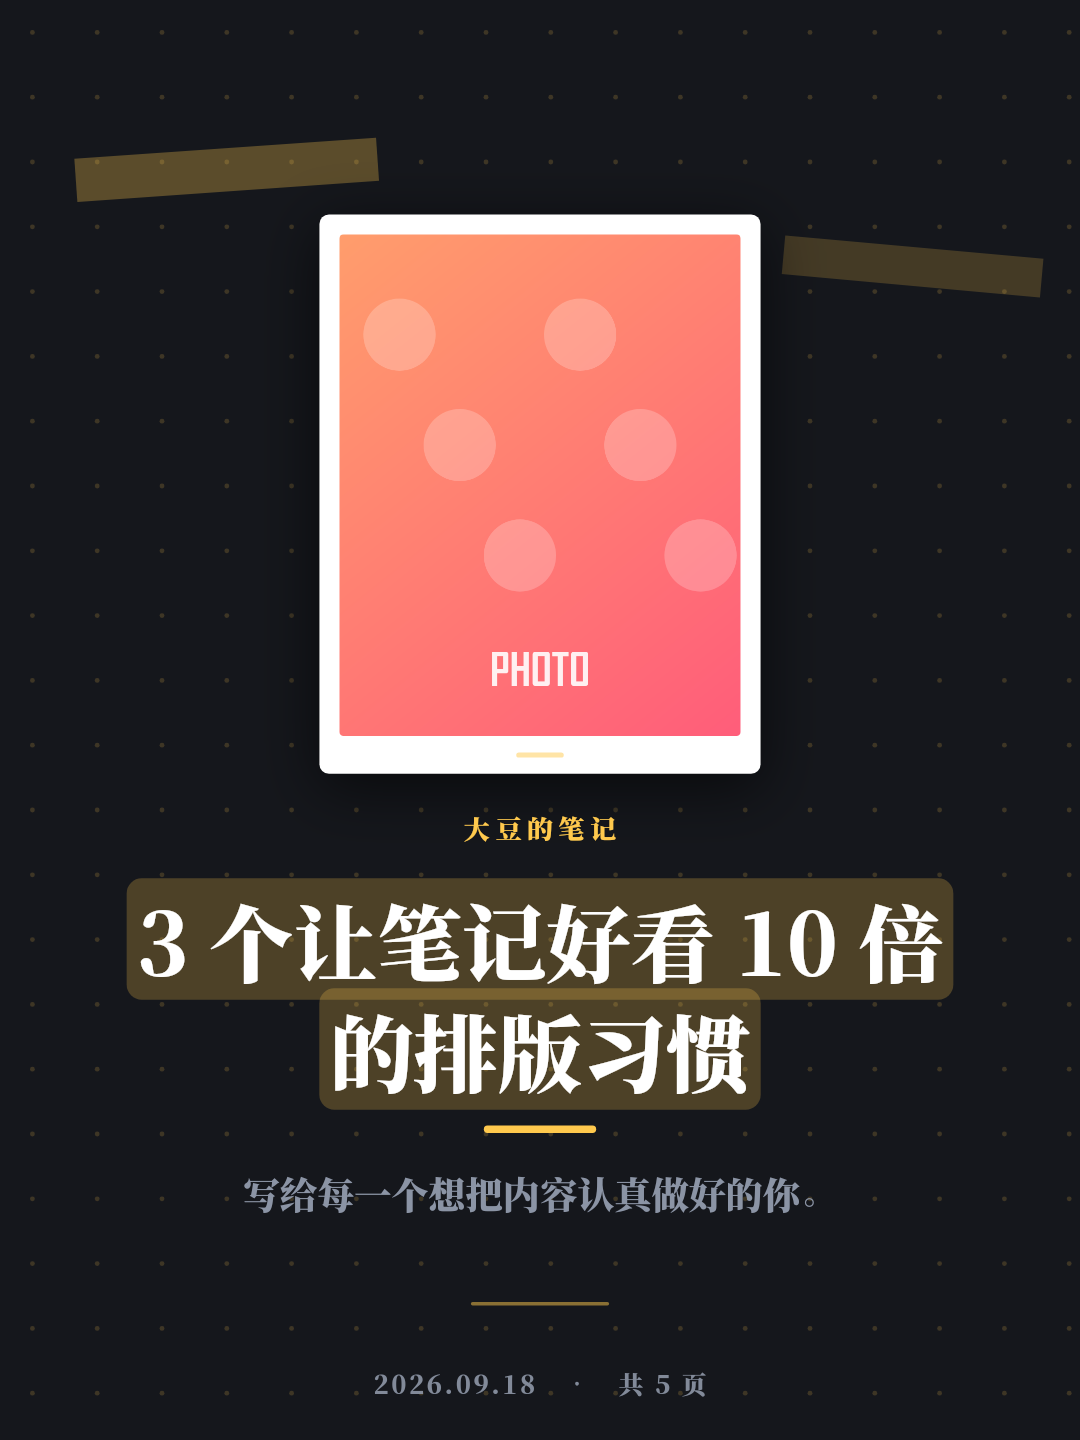
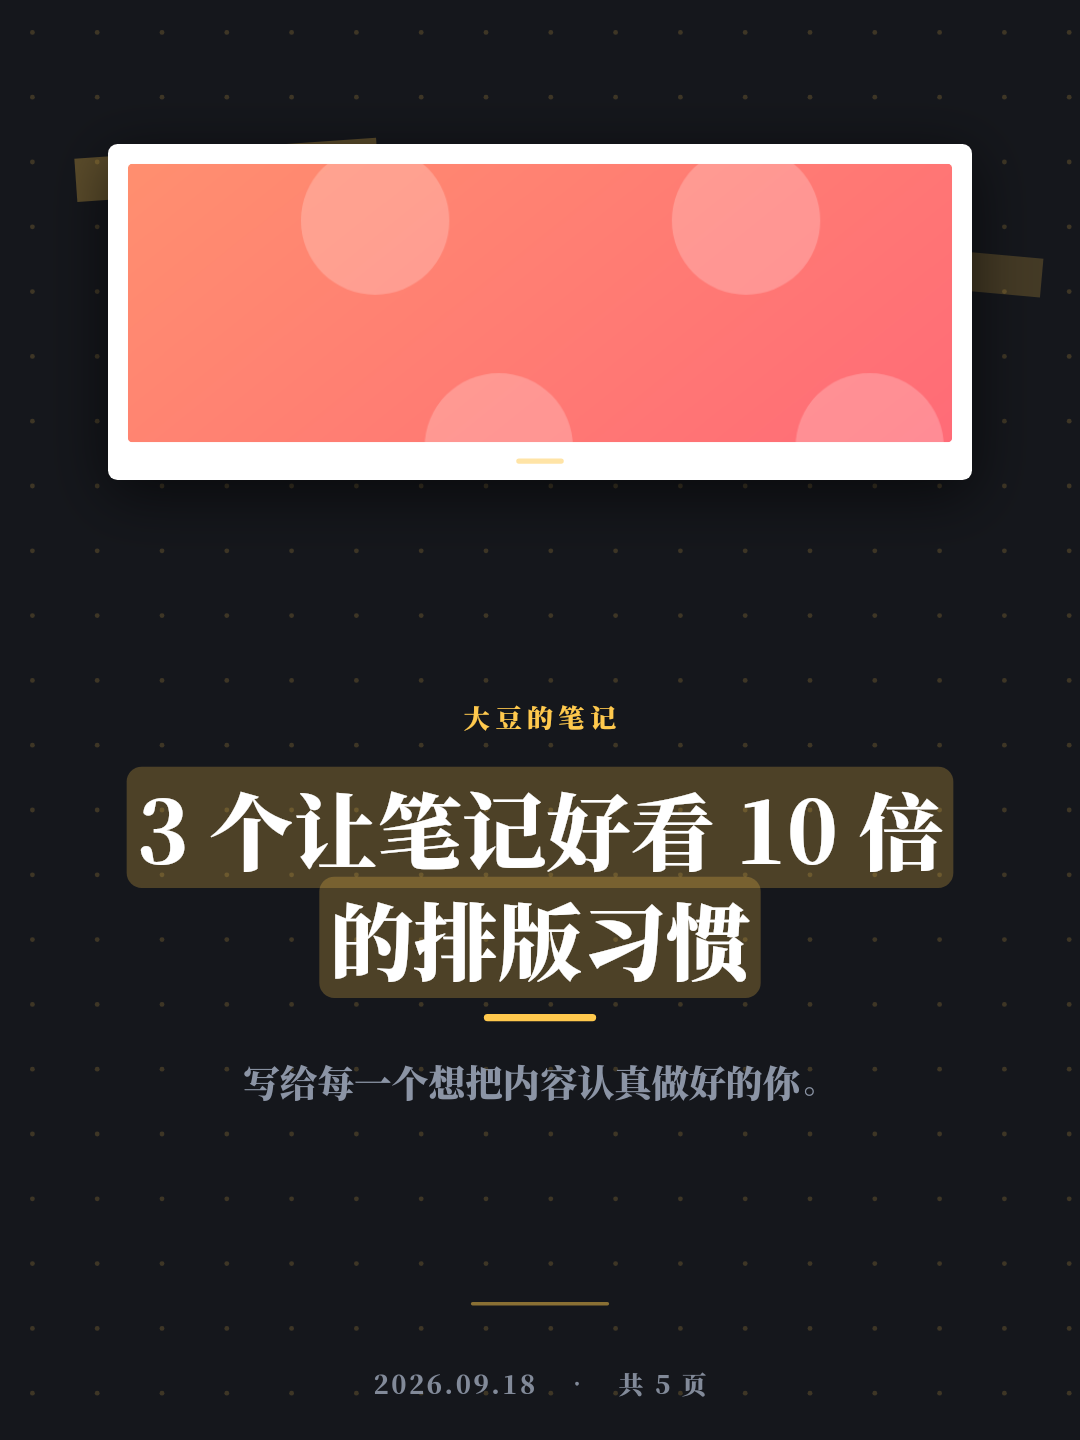
封面配图改为固定版式：占封面上方 1/3，左右上各留 10%
原来配图是按档位自适应尺寸、再和标题一起整体居中，位置和大小都不确定。
改为固定版式，所见即所得：

- 左右各留 10% 宽度、上边留 10% 高度，图片底边正好落在画布 1/3 处
- 图片按比例裁切填满该区域（不留白、不拉伸变形）
- 四种样式的外框（含拍立得白相纸）统一以该区域为准
- 圆形取区域高度为直径、水平居中（圆无法填满宽幅区，这是唯一例外）
- 「图片大小」由原来的自适应档位改为在 1/3 版式上的微调倍率 0.8/1/1.2/1.4
- 杂志栏目风格的页眉条本已占到 10.8%H，配图顶边自动下移避开，底边仍锚定 1/3
- 标题过长时优先自动缩小标题字号保住该版式，极端长度才压缩配图，永不溢出画布

顺带修掉一个真实溢出 bug：72 字长标题在「大字标题」风格下会把文字挤出画布、
压到页脚日期上（之前配图可以无限缩小所以没暴露）。

新增 _test/coverlayout.js：用品红测试图逐点取像素做几何断言，
覆盖 4 种画布比例 × 4 档大小 × 4 种样式 + 页眉条避让 + 竖图裁切 + 长标题，
203 项断言全过（不是「没抛错」就算过）。

diff --git a/_test/coverlayout.js b/_test/coverlayout.js
@@ -1,0 +1,239 @@
+/* 封面配图「固定版式」几何测试
+   规则：左右各 10%W、上边 10%H、底边落在画布 1/3 处（按档位乘 0.8/1/1.2/1.4）、裁切填满
+   做法：用纯品红测试图，渲染后逐点取像素，断言图上/图外的真实位置 —— 不是「没抛错」就算过 */
+const fs = require('fs');
+const path = require('path');
+require('../js/util.js');
+require('../js/md.js');
+require('../js/themes.js');
+const napi = require('@napi-rs/canvas');
+
+global.document = {
+  createElement: function () {
+    const w = { _w: 0, _h: 0, _inst: null };
+    Object.defineProperty(w, 'width', { get() { return this._w; }, set(v) { this._w = v; } });
+    Object.defineProperty(w, 'height', { get() { return this._h; }, set(v) { this._h = v; } });
+    w.getContext = function () {
+      if (!this._inst) this._inst = napi.createCanvas(this._w || 1, this._h || 1);
+      const c = this._inst.getContext('2d'); c.textBaseline = 'middle'; return c;
+    };
+    return w;
+  }
+};
+require('../js/render.js');
+const MD = global.MD, RENDER = global.RENDER;
+
+const outDir = path.join(__dirname, 'out4');
+if (!fs.existsSync(outDir)) fs.mkdirSync(outDir);
+
+/* ---------- 断言工具 ---------- */
+let pass = 0, fail = 0;
+const report = [];
+function expect(cond, msg) {
+  if (cond) { pass++; report.push('OK   ' + msg); }
+  else { fail++; report.push('FAIL ' + msg); }
+}
+function nearly(a, b, tol) { return Math.abs(a - b) <= tol; }
+
+/* ---------- 纯品红测试图：任何像素都能判定「这里画了配图」 ---------- */
+function solidBuf(w, h) {
+  const c = napi.createCanvas(w, h), x = c.getContext('2d');
+  x.fillStyle = '#FF00FF'; x.fillRect(0, 0, w, h);
+  return c.toBuffer('image/png');
+}
+const px = (cv, x, y) => {
+  const d = cv._inst.getContext('2d').getImageData(Math.round(x), Math.round(y), 1, 1).data;
+  return { r: d[0], g: d[1], b: d[2] };
+};
+const isImg = p => p.r > 190 && p.g < 70 && p.b > 190;
+
+/* 独立复算期望值（不引用 render.js 内部常量，避免「自己测自己」） */
+const MULT = { sm: 0.8, md: 1.0, lg: 1.2, xl: 1.4 };
+const RATIOS = { '3:4': [3, 4], '4:5': [4, 5], '1:1': [1, 1], '9:16': [9, 16] };
+function expectBox(W, H, size, band) {
+  const base = W * 0.040;
+  let top = H * 0.10;
+  if (band) top = Math.max(top, Math.round(H * 0.108) + base * 0.6);
+  const specH = H / 3 - top;
+  return { left: W * 0.10, right: W * 0.90, top: top, h: specH * MULT[size], bottom: top + specH * MULT[size] };
+}
+
+/* 检查一个已渲染的封面：图内 5 点必须是品红，图外 4 点必须不是 */
+function probeCover(tag, cv, W, H, e) {
+  const midY = e.top + e.h / 2;
+  const inside = [
+    ['上边内', W / 2, e.top + 5],
+    ['下边内', W / 2, e.bottom - 5],
+    ['左边内', e.left + 5, midY],
+    ['右边内', e.right - 5, midY],
+    ['中心', W / 2, midY]
+  ];
+  const outside = [
+    ['上边外(仅 10% 上边距)', W / 2, e.top - 7],
+    ['下边外(超出 1/3)', W / 2, e.bottom + 8],
+    ['左边外', e.left - 7, midY],
+    ['右边外', e.right + 7, midY]
+  ];
+  for (const [name, x, y] of inside) {
+    expect(isImg(px(cv, x, y)), `${tag} ${name} 应为配图 (${Math.round(x)},${Math.round(y)})`);
+  }
+  for (const [name, x, y] of outside) {
+    expect(!isImg(px(cv, x, y)), `${tag} ${name} 不应为配图 (${Math.round(x)},${Math.round(y)})`);
+  }
+}
+
+const SAMPLE = '# 封面标题\n\n一句话副标题\n\n## 小节\n\n正文内容一二三。\n';
+const LONG_MD = '# ' + '这是一个相当长的封面标题需要换行处理'.repeat(4) + '\n\n正文。';
+
+(async function main() {
+  const land = await napi.loadImage(solidBuf(1200, 900));
+  const port = await napi.loadImage(solidBuf(720, 1280));
+  const imgMap = {
+    'img:land': { img: land, w: 1200, h: 900 },
+    'img:port': { img: port, w: 720, h: 1280 }
+  };
+  const mk = (o) => Object.assign({
+    width: 1080, ratio: '3:4', themeId: 'cream', styleId: 'board', fontId: 'sans',
+    fontScale: 0.040, padRatio: 0.085, account: '@测试', endText: '关注我',
+    cover: true, end: true, pageNum: true, header: true,
+    coverImg: 'img:land', coverImgSize: 'md', coverImgShape: 'plain'
+  }, o);
+
+  /* ---- A. 4 种画布比例 × 4 档大小：底边必须落在 1/3，左右上必须 10% ---- */
+  for (const rt of Object.keys(RATIOS)) {
+    const r = RATIOS[rt], W = 1080, H = Math.round(W * r[1] / r[0]);
+    for (const sz of Object.keys(MULT)) {
+      const e = expectBox(W, H, sz, false);
+      let cv;
+      try {
+        cv = RENDER.renderSync(MD.parse(SAMPLE), mk({ ratio: rt, coverImgSize: sz }), imgMap)[0].canvas;
+        fs.writeFileSync(path.join(outDir, `geom-${rt.replace(':', 'x')}-${sz}.png`), cv._inst.toBuffer('image/png'));
+      } catch (err) { expect(false, `geom-${rt}-${sz} 渲染抛错: ${err.message}`); continue; }
+      probeCover(`[${rt}/${sz}]`, cv, W, H, e);
+      // 精确断言：左右边界就是 10% / 90%
+      expect(nearly(e.left, W * 0.1, 0.5) && nearly(e.right, W * 0.9, 0.5), `[${rt}/${sz}] 左右边界 = ${W * 0.1} / ${W * 0.9}`);
+      if (sz === 'md') {
+        // 中档：底边严格落在 H/3
+        expect(isImg(px(cv, W / 2, H / 3 - 4)) && !isImg(px(cv, W / 2, H / 3 + 10)),
+          `[${rt}] 中档底边落在画布 1/3 处 (H=${H}, H/3=${Math.round(H / 3)})`);
+      }
+    }
+  }
+
+  /* ---- B. 4 档大小的底边严格递增（3:4 画布） ---- */
+  {
+    const W = 1080, H = 1440;
+    const bots = [];
+    for (const sz of ['sm', 'md', 'lg', 'xl']) {
+      const e = expectBox(W, H, sz, false);
+      const cv = RENDER.renderSync(MD.parse(SAMPLE), mk({ coverImgSize: sz }), imgMap)[0].canvas;
+      // 找真实底边：从期望值附近向下扫，最后一行是图的 y
+      let real = 0;
+      for (let y = Math.round(e.top); y < H * 0.6; y++) if (isImg(px(cv, W / 2, y))) real = y;
+      bots.push(real);
+      expect(nearly(real, e.bottom, 3), `[3:4/${sz}] 实测底边 ${real} ≈ 期望 ${Math.round(e.bottom)}`);
+    }
+    expect(bots[0] < bots[1] && bots[1] < bots[2] && bots[2] < bots[3],
+      `4 档大小底边依次下移: ${bots.join(' < ')}`);
+  }
+
+  /* ---- C. 4 种样式都落在同一区域（圆形只在框内居中画圆） ---- */
+  for (const sh of ['rounded', 'plain', 'circle', 'polaroid']) {
+    const W = 1080, H = 1440, e = expectBox(W, H, 'md', false);
+    const cv = RENDER.renderSync(MD.parse(SAMPLE), mk({ coverImgShape: sh }), imgMap)[0].canvas;
+    fs.writeFileSync(path.join(outDir, 'shape-' + sh + '.png'), cv._inst.toBuffer('image/png'));
+    if (sh === 'circle') {
+      // 圆直径 = 框高，圆心在框中心
+      const r = e.h / 2, cx = W / 2, cyy = e.top + e.h / 2;
+      expect(isImg(px(cv, cx, cyy)) && isImg(px(cv, cx, cyy - r + 6)) && !isImg(px(cv, cx - r - 8, cyy)),
+        `[circle] 直径=${Math.round(e.h)} 圆心=(${Math.round(cx)},${Math.round(cyy)}) 落在上方 1/3 区域内`);
+    } else if (sh === 'polaroid') {
+      // 白相纸外框 = 该区域；照片内缩，所以框的四角应是白色而非品红
+      const p = px(cv, e.left + 3, e.top + 3);
+      expect(p.r > 235 && p.g > 235 && p.b > 235, `[polaroid] 外框左上角为白相纸色 rgba(${p.r},${p.g},${p.b})`);
+      expect(isImg(px(cv, W / 2, e.top + e.h / 2)), `[polaroid] 照片区中心仍为配图`);
+      expect(!isImg(px(cv, W / 2, e.bottom + 8)), `[polaroid] 外框底边之外无配图`);
+    } else {
+      probeCover('[' + sh + ']', cv, W, H, e);
+    }
+  }
+
+  /* ---- D. 杂志栏目（有页眉条）：配图不能被页眉条压住 ---- */
+  {
+    const W = 1080, H = 1440;
+    const e = expectBox(W, H, 'md', true);
+    const cv = RENDER.renderSync(MD.parse(SAMPLE), mk({ styleId: 'magazine' }), imgMap)[0].canvas;
+    fs.writeFileSync(path.join(outDir, 'band-magazine.png'), cv._inst.toBuffer('image/png'));
+    const bandH = Math.round(H * 0.108);
+    expect(!isImg(px(cv, W / 2, bandH - 4)), `[magazine] 页眉条内(0~${bandH})没有配图`);
+    expect(isImg(px(cv, W / 2, e.top + 6)), `[magazine] 配图顶边下移到 ${Math.round(e.top)}（避开页眉条）`);
+    expect(nearly(e.bottom, H / 3, 1), `[magazine] 底边仍锚定在 1/3 = ${Math.round(H / 3)}`);
+    expect(!isImg(px(cv, W / 2, e.bottom + 8)), `[magazine] 底边之外无配图`);
+  }
+
+  /* ---- E. 竖向图同样落在该区域（裁切填满，不留白） ---- */
+  {
+    const W = 1080, H = 1440, e = expectBox(W, H, 'md', false);
+    const cv = RENDER.renderSync(MD.parse(SAMPLE), mk({ coverImg: 'img:port' }), imgMap)[0].canvas;
+    fs.writeFileSync(path.join(outDir, 'portrait-source.png'), cv._inst.toBuffer('image/png'));
+    // 裁切填满 ⇒ 区域四角都应是图，而不是背景
+    expect(isImg(px(cv, e.left + 6, e.top + 6)) && isImg(px(cv, e.right - 6, e.bottom - 6)),
+      `[竖图源] 裁切填满：区域四角均为配图（无留白）`);
+  }
+
+  /* ---- F. 超长标题：优先缩标题字号保住配图版式，且文字不溢出画布 ---- */
+  {
+    const W = 1080, H = 1440, e = expectBox(W, H, 'xl', false);
+    const bot = H - Math.round(W * 0.085) * 1.6;
+    const cv = RENDER.renderSync(MD.parse(LONG_MD), mk({ coverImgSize: 'xl', styleId: 'board' }), imgMap)[0].canvas;
+    fs.writeFileSync(path.join(outDir, 'long-title-clamp.png'), cv._inst.toBuffer('image/png'));
+
+    // 1) 配图仍占满 xl 档的规格区域（说明是「先缩字」而不是「先压图」）
+    let real = 0;
+    for (let y = 0; y < H * 0.6; y++) if (isImg(px(cv, W / 2, y))) real = y;
+    expect(nearly(real, e.bottom, 4), `[超长标题] 配图仍保留 xl 规格底边 ${real} ≈ ${Math.round(e.bottom)}`);
+
+    // 2) 文字没有溢出：文字区下限附近应与更下方的空白同色
+    const p1 = px(cv, W / 2, bot + 4), p2 = px(cv, W / 2, bot + 70);
+    const near = (a, b) => Math.abs(a.r - b.r) < 12 && Math.abs(a.g - b.g) < 12 && Math.abs(a.b - b.b) < 12;
+    expect(near(p1, p2), `[超长标题] 文字未越过文字区下限 (${bot})：y=${bot + 4} 与 y=${bot + 70} 同色`);
+
+    // 3) 对照组：同一版式下短标题的封面，配图位置应完全一致（版式不受文字长度影响）
+    const cvShort = RENDER.renderSync(MD.parse(SAMPLE), mk({ coverImgSize: 'xl', styleId: 'board' }), imgMap)[0].canvas;
+    let realShort = 0;
+    for (let y = 0; y < H * 0.6; y++) if (isImg(px(cvShort, W / 2, y))) realShort = y;
+    expect(nearly(real, realShort, 2), `[超长标题] 与短标题版式一致（${real} vs ${realShort}）`);
+  }
+
+  /* ---- F2. 极端长度（216 字）：字号降到下限后压缩配图，仍不溢出 ---- */
+  {
+    const W = 1080, H = 1440, e = expectBox(W, H, 'xl', false);
+    const bot = H - Math.round(W * 0.085) * 1.6;
+    const huge = '# ' + '这是一个相当长的封面标题需要换行处理'.repeat(12) + '\n\n正文。';
+    const cv = RENDER.renderSync(MD.parse(huge), mk({ coverImgSize: 'xl', styleId: 'board' }), imgMap)[0].canvas;
+    fs.writeFileSync(path.join(outDir, 'huge-title.png'), cv._inst.toBuffer('image/png'));
+    let real = 0;
+    for (let y = 0; y < H * 0.5; y++) if (isImg(px(cv, W / 2, y))) real = y;
+    expect(real < e.bottom, `[216字标题] 配图被压到 ${real}px（< xl 规格 ${Math.round(e.bottom)}）`);
+    expect(real > e.top + 90, `[216字标题] 配图仍有可辨识高度 ${Math.round(real - e.top)}px`);
+    const p1 = px(cv, W / 2, bot + 4), p2 = px(cv, W / 2, bot + 70);
+    const near = (a, b) => Math.abs(a.r - b.r) < 12 && Math.abs(a.g - b.g) < 12 && Math.abs(a.b - b.b) < 12;
+    expect(near(p1, p2), `[216字标题] 文字仍未越过文字区下限 (${bot})`);
+  }
+
+  /* ---- G. 没有配图时，版式不应受影响（保持原有的整体居中） ---- */
+  {
+    const cv = RENDER.renderSync(MD.parse(SAMPLE), mk({ coverImg: '' }), imgMap)[0].canvas;
+    fs.writeFileSync(path.join(outDir, 'no-image.png'), cv._inst.toBuffer('image/png'));
+    let any = false;
+    const d = cv._inst.getContext('2d');
+    for (let y = 0; y < 500; y += 7) if (isImg(px(cv, 540, y))) any = true;
+    expect(!any, '[无配图] 封面上方 1/3 内没有品红（不画配图）');
+  }
+
+  fs.writeFileSync(path.join(__dirname, 'coverlayout-log.txt'),
+    report.join('\n') + `\n\n通过 ${pass} / 失败 ${fail}\n`, 'utf8');
+  console.log(report.join('\n'));
+  console.log(`\n通过 ${pass} / 失败 ${fail}`);
+  process.exitCode = fail ? 1 : 0;
+})();

diff --git a/js/render.js b/js/render.js
@@ -502,30 +502,27 @@
       drawSpaced(ctx, String(opts.account).slice(0, 18), W - pad, pad * 0.5, base * 0.04, 'right');
     }
 
-    /* ---- 封面配图（置于标题上方） ---- */
+    /* ---- 封面配图（固定版式：钉在顶部，左右上各留 10%，底边落在画布 1/3 处） ---- */
     const cImg = (opts.coverImg && images) ? images[opts.coverImg] : null;
-    const SIZE_RATIO = { sm: 0.42, md: 0.56, lg: 0.72, xl: 0.88 };
-    const MAT = base * 0.46;   // 拍立得白边
+    const SIZE_MULT = { sm: 0.8, md: 1.0, lg: 1.2, xl: 1.4 };   // 「图片大小」= 在 1/3 版式上的微调倍率
 
-    // 依据可用空间算出配图外框尺寸；横竖图统一按长边计算，观感更一致
-    function coverImageBox(maxW, maxH) {
+    // h 传 0/falsy 表示按档位取高度；传具体值用于「内容过长时压缩配图腾地方」
+    function coverImageBox(h) {
       if (!cImg) return null;
       const shape = opts.coverImgShape || 'rounded';
-      const ratio = Math.max(0.22, Math.min(4.5, cImg.w / Math.max(1, cImg.h)));
-      const side = Math.max(base * 3, maxW * (SIZE_RATIO[opts.coverImgSize] || SIZE_RATIO.md));
-      const matTop = shape === 'polaroid' ? MAT : 0;
-      const matBot = shape === 'polaroid' ? MAT * 1.9 : 0;
-      const mh = maxH - matTop - matBot;      // 扣除相纸白边后的可用高度
-      if (mh < base * 2.4) return null;       // 空间不足：宁可不放图，也不画一个米粒大的装饰
-      let iw, ih;
-      if (shape === 'circle') {
-        iw = ih = Math.min(side, mh);
-      } else if (ratio >= 1) {
-        iw = Math.min(side, mh * ratio); ih = iw / ratio;
-      } else {
-        ih = Math.min(side, mh); iw = ih * ratio;
-      }
-      return { w: iw + matTop * 2, h: ih + matTop + matBot, iw: iw, ih: ih, mat: matTop, matBot: matBot };
+      const x = W * 0.10, w = W * 0.80;
+      let top = H * 0.10;
+      // 杂志栏目的页眉条本身占到 10.8%H，会顶到 10% 处，往下让一点（其余版式严格 10%）
+      if (style.band) top = Math.max(top, bandH + base * 0.6);
+      const specH = H / 3 - top;                                 // 中档：底边正好落在 1/3
+      const hh = h || specH * (SIZE_MULT[opts.coverImgSize] || 1);
+      const mat = shape === 'polaroid' ? Math.min(base * 0.46, hh * 0.16) : 0;
+      const matBot = mat * 1.9;
+      return {
+        x: x, y: top, w: w, h: hh, specH: specH,
+        mat: mat, matBot: matBot,
+        iw: w - mat * 2, ih: Math.max(base, hh - mat - matBot)
+      };
     }
 
     // 等比铺满（object-fit: cover）绘制
@@ -601,26 +598,38 @@
       }
       paintBand(ctx, '');
 
-      const tSize = base * 1.95, tLH = Math.round(tSize * 1.3);
-      const tLines = wrapTo(tok(title, tSize, 700), contentW * 0.94);
       const sSize = base * 0.86, sLH = Math.round(sSize * 1.62);
       const sLines = subtitle ? wrapTo(tok(subtitle, sSize, 400), contentW * 0.82).slice(0, 3) : [];
 
       const top = style.band ? bandH + base * 0.7 : H * 0.1;
       const bot = H - pad * 1.6;
       const kickerAdv = style.titleMark === 'block' ? base * 1.65 : base * 1.3;
-      const textH = kickerAdv + tLines.length * tLH + base * 1.35 + sLines.length * sLH;
-
-      // 配图 + 文字整体垂直居中；配图高度自适应可用空间，保证文字不被挤出
       const gapImg = base * 1.25;
-      const box = coverImageBox(contentW, bot - top - textH - gapImg);
-      const totalH = textH + (box ? box.h + gapImg : 0);
-      let cy = top + Math.max(0, (bot - top - totalH) * 0.5);
 
-      if (box) {
-        paintCoverImage(ctx, (W - box.w) / 2, cy, box);
-        cy += box.h + gapImg;
+      // 配图固定钉在顶部（左右上各 10%，底边落在 1/3）；文字在剩余空间里垂直居中
+      const specBox = coverImageBox(0);
+      const textAreaTop = specBox ? specBox.y + specBox.h + gapImg : top;
+
+      // 标题自动缩放：优先保住配图版式（严格 1/3），文字放不下就先缩标题字号
+      let tSize = base * 1.95, tLH = Math.round(tSize * 1.3), tLines, textH = 0;
+      for (let pass = 0; pass < 20; pass++) {
+        tLines = wrapTo(tok(title, tSize, 700), contentW * 0.94);
+        textH = kickerAdv + tLines.length * tLH + base * 1.35 + sLines.length * sLH;
+        if (textH <= bot - textAreaTop || tSize <= base * 1.05) break;
+        tSize = Math.max(base * 1.05, tSize * 0.94);
+        tLH = Math.round(tSize * 1.3);
       }
+
+      // 字号已到下限仍放不下（极端长标题）：再压缩配图，最低到规格高度的 40%
+      let box = specBox;
+      if (box) {
+        const maxH = bot - box.y - gapImg - textH;
+        if (box.h > maxH) box = coverImageBox(Math.max(box.specH * 0.4, maxH));
+      }
+      const areaTop = box ? box.y + box.h + gapImg : top;
+      let cy = areaTop + Math.max(0, (bot - areaTop - textH) * 0.5);
+
+      if (box) paintCoverImage(ctx, box.x, box.y, box);
 
       ctx.fillStyle = theme.accent;
       ctx.font = '700 ' + Math.round(base * 0.6) + 'px ' + stack;

diff --git a/index.html b/index.html
@@ -110,17 +110,17 @@
           <div id="coverImgThumb" class="imgdrop-thumb"></div>
           <div class="imgdrop-text">
             <b id="coverImgPick">点击选择图片</b>
-            <span>或拖入 / Ctrl+V 粘贴 · 显示在封面标题上方</span>
+            <span>或拖入 / Ctrl+V 粘贴 · 固定占封面上方 1/3，左右上各留 10%</span>
           </div>
           <button id="coverImgClear" class="mini-btn danger" type="button" hidden>移除</button>
         </div>
         <div id="coverImgOpts" class="grid2 imgsize off">
           <label class="field">图片大小
             <select id="coverImgSize">
-              <option value="sm">小</option>
-              <option value="md" selected>中</option>
-              <option value="lg">大</option>
-              <option value="xl">特大</option>
+              <option value="sm">小（0.8×）</option>
+              <option value="md" selected>中（1×，底边落在 1/3）</option>
+              <option value="lg">大（1.2×）</option>
+              <option value="xl">特大（1.4×）</option>
             </select>
           </label>
           <label class="field">图片样式

diff --git a/_test/cover.js b/_test/cover.js
@@ -99,7 +99,8 @@ const report = [];
     }
   }
 
-  // 2) 4 种尺寸档位 → 配图应逐档变大（用竖向图，保证高度受空间约束）
+  // 2) 4 档「图片大小」= 在固定 1/3 版式上的微调倍率（0.8/1/1.2/1.4），只做冒烟
+  //    （精确几何断言见 coverlayout.js）
   for (const sz of sizes) {
     const opts = {
       width: 1080, ratio: '3:4', themeId: 'dark', styleId: 'journal', fontId: 'sans',

diff --git a/README.md b/README.md
@@ -35,11 +35,13 @@
 
 ### 封面
 - 封面页含标题、副标题、署名、日期、总页数
-- **封面配图**：显示在封面标题上方，支持
-  - 4 种样式：圆角矩形 / 直角 / 圆形（带主题色描边+光晕）/ 拍立得（白相纸+底部留白）
-  - 4 档大小：小 / 中 / 大 / 特大
+- **封面配图**：固定在封面顶部，版式是死的，不用手动摆
+  - **位置固定**：左右各留 10% 宽度、上边留 10% 高度，图片底边正好落在画布 **1/3** 处
+  - 4 种样式：圆角矩形 / 直角 / 圆形（带主题色描边+光晕）/ 拍立得（白相纸+底部留白，相框即该区域）
+  - 4 档大小：在 1/3 版式上微调 **0.8× / 1× / 1.2× / 1.4×**
+  - 图片**裁切填满**该区域（和朋友圈封面同理：不留白、不拉伸变形）
   - 3 种添加方式：点击选图 / 把图拖进来 / `Ctrl + V` 粘贴剪贴板里的图
-  - 配图高度会按可用空间**自适应**，文字多时自动让位；空间实在不够就主动不画图（而不是缩成一个小点）
+  - 文字区在配图之下垂直居中；标题过长时**优先自动缩小标题字号**保住这个版式，极端长度才压缩配图，永不溢出画布
 - 结尾页文案可自定义（默认「点赞 · 收藏 · 关注不迷路」）
 - 页码、页眉署名可分别开关
 
@@ -93,7 +95,8 @@ _test/              离线测试台（见下）
 npm i @napi-rs/canvas
 cd _test
 node test-render.js   # 多配色/版式/字体组合出图
-node cover.js         # 封面配图专项（样式 × 图源 × 大小 × 画布比例）
+node cover.js         # 封面配图冒烟（样式 × 图源 × 大小 × 画布比例）
+node coverlayout.js   # 封面配图版式几何断言：用品红测试图逐点取像素，验证左右上 10%、底边 1/3
 node edge.js          # 边界用例：空文稿、超长表格、超长无空格串、各画布比例…
 node diag.js          # 打印每页每个条目的 x/y 坐标，定位分页问题
 node domcheck.js      # 静态校验 index.html 的 id ↔ app.js 的选择器
